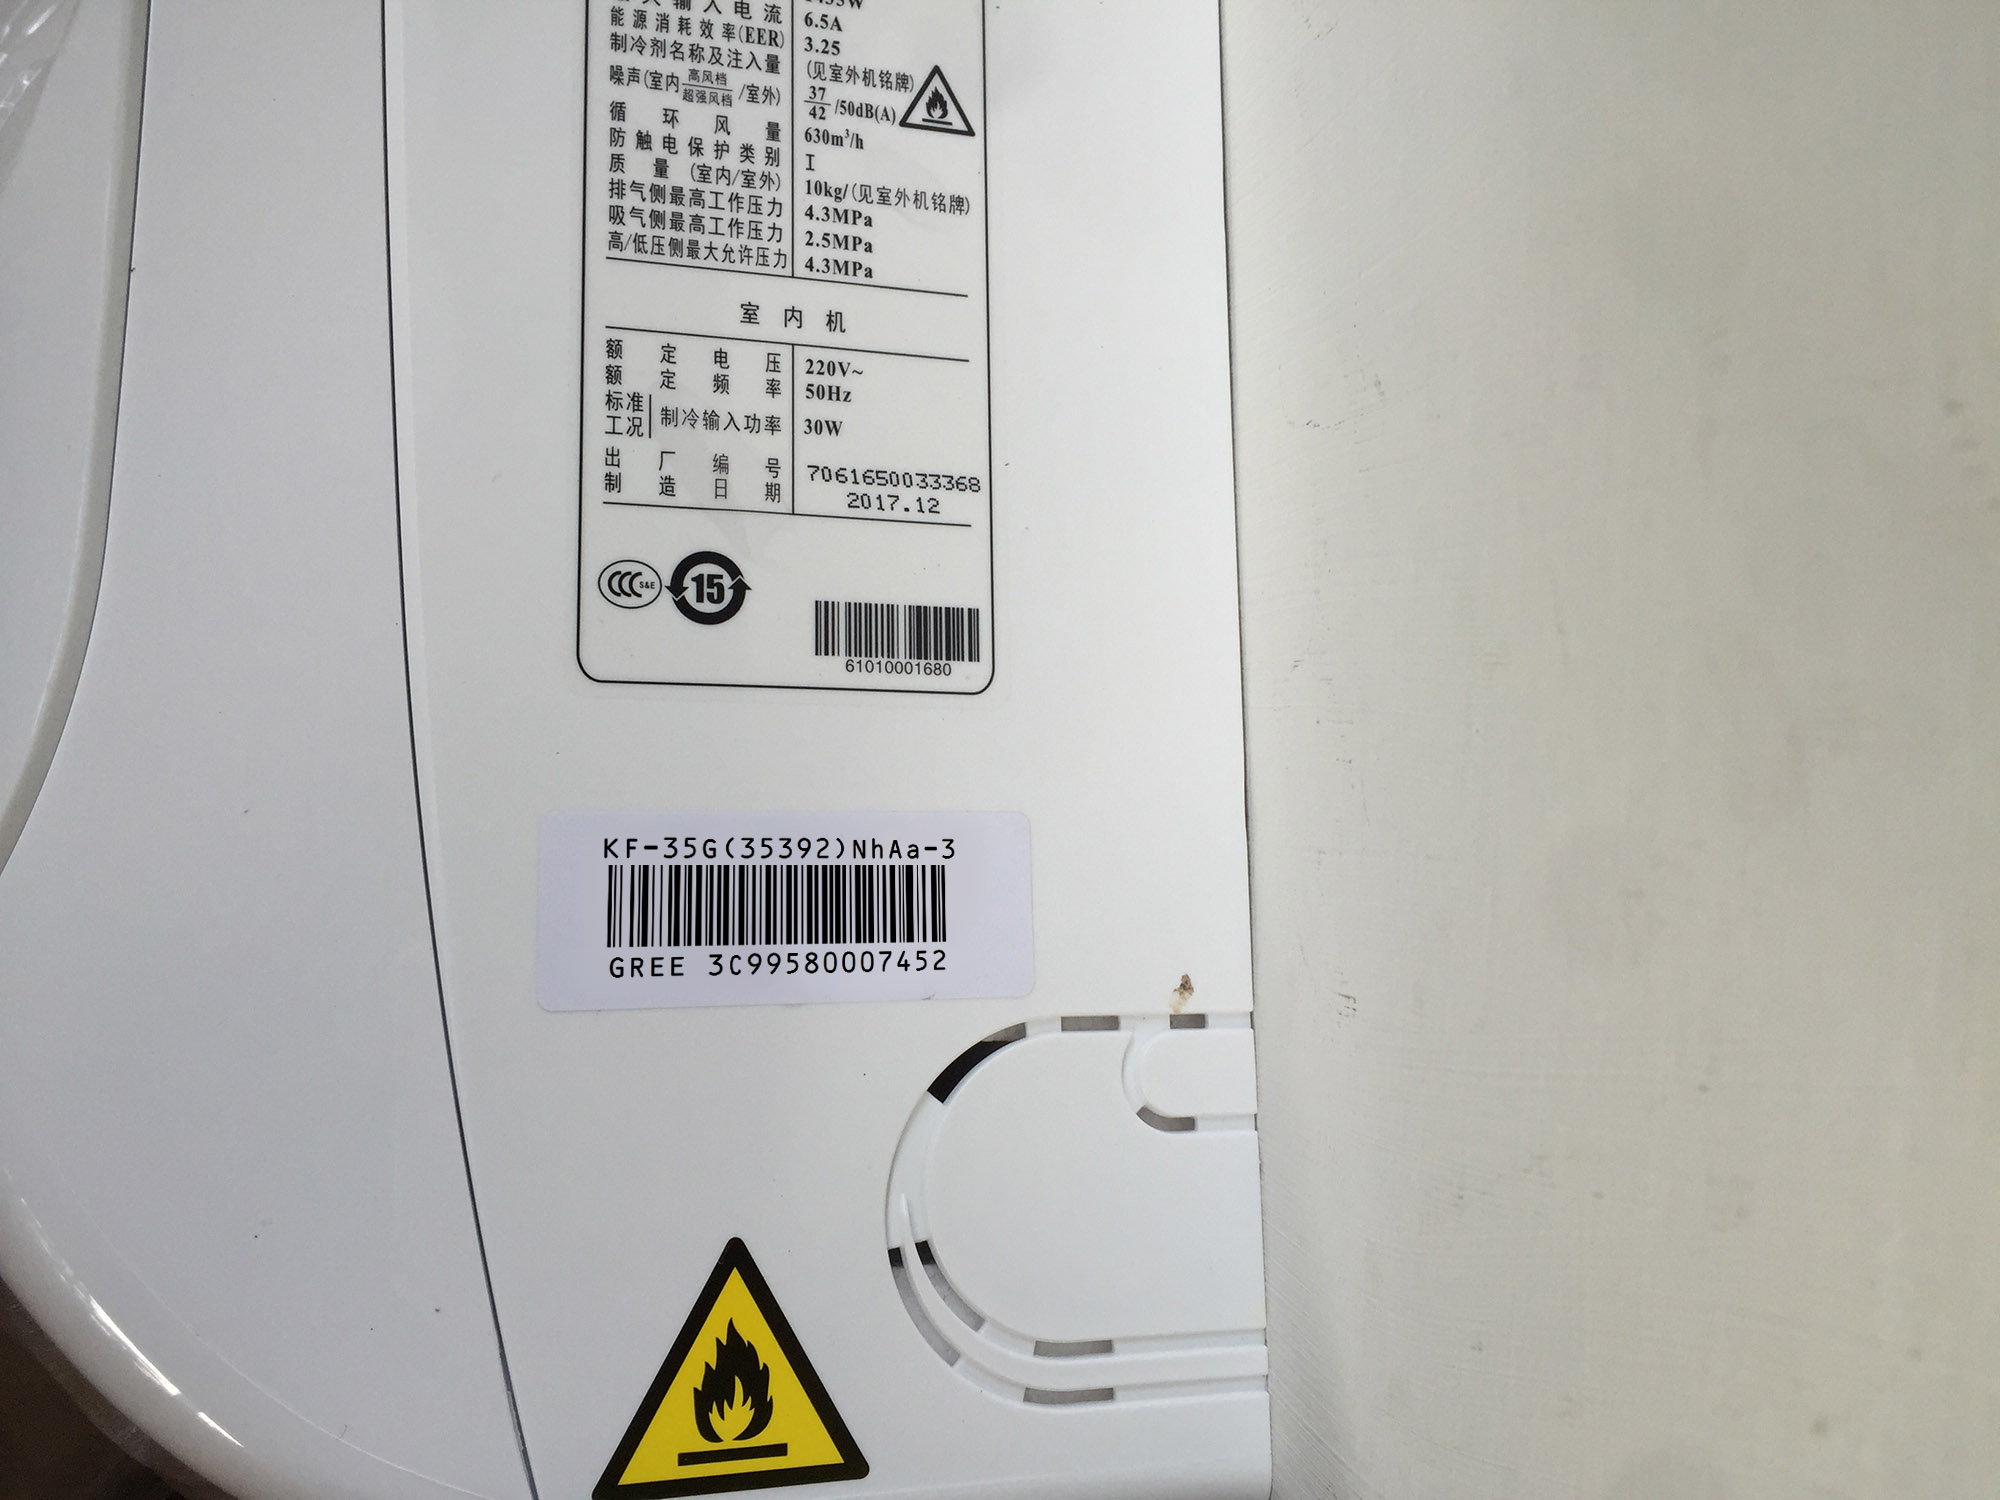
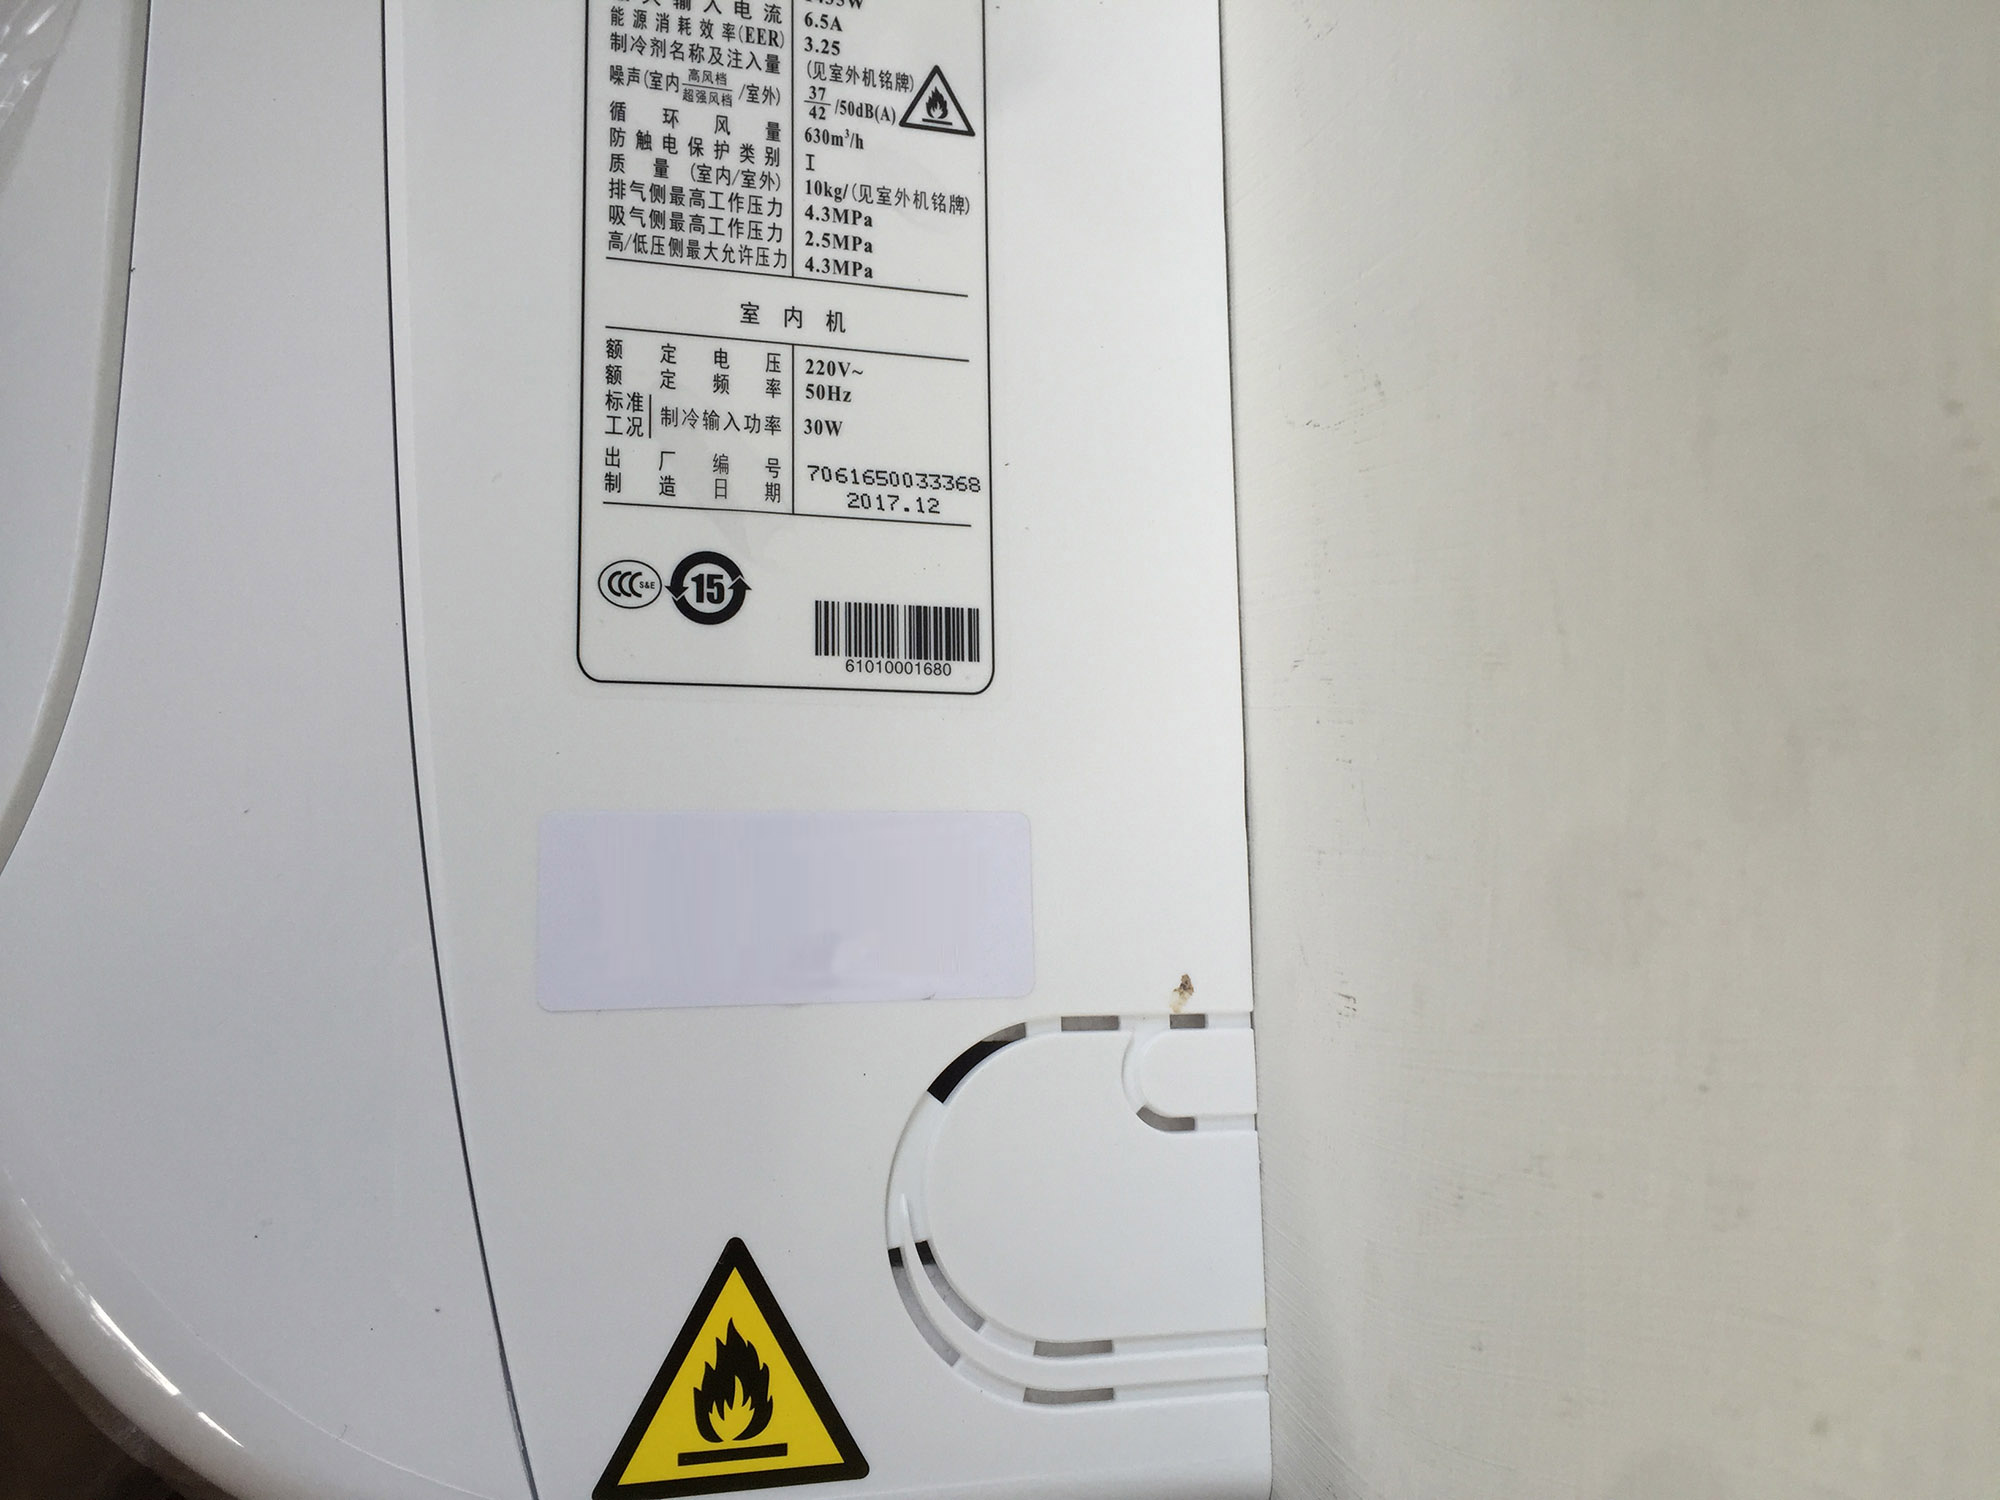
设置透明背景

Changed region(s): [[0.279, 0.552, 0.496, 0.6747]]

diff --git a/poster/src/main/java/sz/fengzfeng/controller/BarcodeController.java b/poster/src/main/java/sz/fengzfeng/controller/BarcodeController.java
@@ -18,8 +18,10 @@ import java.util.ArrayList;
 import java.util.List;
 
 import javax.imageio.ImageIO;
+import javax.swing.ImageIcon;
 
 import org.jbarcode.encode.InvalidAtributeException;
+
 import org.slf4j.Logger;
 import org.slf4j.LoggerFactory;
 import org.springframework.stereotype.Controller;
@@ -63,113 +65,71 @@ public class BarcodeController {
 		    
 			int width = 527;
 			int height = 30;
-			Font font = new Font("817-CAI978", Font.TRUETYPE_FONT, 28);
 			
-			 //设置透明  start
+
+			
+
+			//
 			
 			//添加文字  
 			BufferedImage bi = creater.toBufferedImage(barcode);
 			Graphics2D g2 = (Graphics2D) bi.getGraphics();
+			//
+			int fontsize = 33;
+			int fontheight = bi.getHeight()*1/4;
+			int fontpos_x1 = 18;
+			int fontpos_y1 = 30;
+			int fontpos_x2 = 25;
+			int fontpos_y2 = bi.getHeight() -5;
+			 
+			
+			Font font = new Font("817-CAI978", Font.TRUETYPE_FONT, fontsize);
 			//设置透明背景
 			//bi = g2.getDeviceConfiguration().createCompatibleImage(bi.getWidth(), bi.getWidth(), Transparency.TRANSLUCENT);  
 			//g2=bi.createGraphics();  
 			
 			g2.setPaint(Color.WHITE);
-			g2.fillRect(0, 0, bi.getWidth(), bi.getHeight()*1/4);
-
-            //Color bgcolor = new Color(182,181,194);
-			//Color bgcolor2 = new Color(201,201,211);
-			
-			//clearRect(width, height, g2, bgcolor2, 0);
+			g2.fillRect(0, 0, bi.getWidth(), fontheight);
 
 			g2.setRenderingHint(RenderingHints.KEY_TEXT_ANTIALIASING, RenderingHints.VALUE_TEXT_ANTIALIAS_LCD_HRGB);
 			g2.setFont(font);
 			g2.setPaint(Color.BLACK);
-			g2.drawString(TEXTUp, 15, 25);
+			g2.drawString(TEXTUp, fontpos_x1, fontpos_y1);
+
 			
-			
-			
-			int posy= bi.getHeight()*3/4+5;
 			g2.setPaint(Color.WHITE);
-			g2.fillRect(0, posy, bi.getWidth(), bi.getHeight()*1/4);
+			g2.fillRect(0, fontpos_y2 - 30, bi.getWidth(), fontheight);
 			//clearRect(width, height, g2, bgcolor2, posy);
 			g2.setPaint(Color.BLACK);
-			g2.drawString(TEXTDown + barcode, 15, posy+20);
+			g2.drawString(TEXTDown + barcode, fontpos_x2, fontpos_y2);
 			
-			//替换背景颜色
-			int[] rgb = new int[3];
-			int width1 = bi.getWidth();
-			int height1 = bi.getHeight();
-			int minx = bi.getMinTileX();
-			int miny = bi.getMinTileY();
-			width= width1;
-			/*
-			 * 遍历像素点，判断是否更换颜色
-			 * */
-			Color startcolor = new Color(176,178,191);
-			Color endcolor = new Color(200,200,212);
-			int range = 20;
-			int step_r = (endcolor.getRed() - startcolor.getRed())/ range;
-			int step_g = (endcolor.getGreen() - startcolor.getGreen())/range ;
-			int step_b = (endcolor.getBlue() - startcolor.getBlue())/range ;
-			int step_area = (width1 - minx)/range;
-			int count = 0;
-			step_r = step_r == 0 ? 1 : step_r;
-			step_g = step_g == 0 ? 1 : step_g;
-			step_b = step_b == 0 ? 1 : step_b;
-			logger.info("step/r/g/b:" + step_r + "/" + step_g + "/"+ step_b);
-			logger.info("step_area/width1/minx:" + step_area + "/" + width1 + "/"+ minx);
-			for (int i = minx; i < width1; i++) {
-				
-				count++;
-				int step = count / step_area;
-		 		int r = startcolor.getRed() + step_r*step;
-		 		int g = startcolor.getGreen() + step_g*step;
-		 		int b = startcolor.getBlue() + step_b*step;
-		 		//最后2个区域设置为结束色。
-		 		/*
-		 		if( step >= range -1) {
-		 			r = endcolor.getRed();
-		 			g = endcolor.getGreen();
-		 			b = endcolor.getBlue();
-		 		}
-		 		*/
-		 		
-		 		
-		 		logger.info("step/r/g/b:" + step + "/"+ r + "/"+ g + "/" + b);
-		 		
-				for (int j = miny; j < height1; j++) {
-					/*
-					 * 换色
-					 * */
-					int pixel = bi.getRGB(i, j);
-					rgb[0] = (pixel & 0xff0000) >>16;
-					rgb[1] = (pixel & 0xff00) >>8;
-				 	rgb[2] = (pixel & 0xff) ;
-				 	
-				 	if (rgb[0]>200 && rgb[1]>200 && rgb[2]>200) {
-				 		int bgcolor = ((0xFF << 24)|(r << 16)|(g << 8)|b);
-						bi.setRGB(i, j, bgcolor);
-					
-					}
-				}
-			}
+			logger.info("fontheight:" + fontheight);
+
 			
-			g2.dispose();
 			try {
 				ImageIO.write(bi, "png", f);
+				g2.dispose();
 			} catch (IOException ee) {
 				ee.printStackTrace();
 			}
+			
+			//将图片背景设为透明
+			sz.fengzfeng.utils.IamgeUtil.RemoveWhiteBackground(f.getAbsolutePath());
  
+			BufferedImage barcodeimg = ImageIO.read(f);
 			//合并图片
+			int replace_start_x = 580;
+			int replace_start_y = 850;
+			float replace_angel = -0.35f; //旋转角度。
+			float replace_shear = -0.021f; //向上倾斜
 			File bgfile = new File(rootLocation +"/bg1.jpeg") ;
 			BufferedImage big = ImageIO.read(bgfile);
 			//int bgwidth = big.getWidth();
 			//int bgheight = big.getHeight();
 			Graphics2D g = big.createGraphics();
-			g.shear(0, -0.024);// 倾斜图像
-			g.drawImage(bi,580,850,bi.getWidth()+30,bi.getHeight()+35,null);
+			g.shear(0, replace_shear);// 倾斜图像
+			//g.rotate(Math.toRadians(replace_angel), replace_start_x,replace_start_y);
+			g.drawImage(barcodeimg,replace_start_x,replace_start_y,bi.getWidth(),bi.getHeight(),null);
 			g.dispose();
 			ImageIO.write(big, "png", new File(rootLocation + "/merge.png"));
 			
@@ -190,18 +150,8 @@ public class BarcodeController {
 
 		return suffix + "/index";
 	}
-
-	private void clearRect(int width, int height, Graphics2D g2, Color bgcolor2, int posy) {
-		for(int i =1; i<= 16 ; i++) {
-			if (i == 16) {
-				g2.setBackground(bgcolor2);
-			}else {
-				g2.setBackground(new Color(182 + i,181+i,194 +i));
-			}
-			int start = width*(i-1)/16 ;
-			g2.clearRect(start, posy, width*1/16+5, height);
-		}
-	}
+	
+   
 	
 	 public static void main(String[] args) {
 		try {

diff --git a/poster/src/main/java/sz/fengzfeng/utils/IamgeUtil.java b/poster/src/main/java/sz/fengzfeng/utils/IamgeUtil.java
@@ -1,0 +1,66 @@
+package sz.fengzfeng.utils;
+
+import java.awt.Color;
+import java.awt.Graphics2D;
+import java.awt.image.BufferedImage;
+import java.io.File;
+import java.io.IOException;
+
+import javax.imageio.ImageIO;
+import javax.swing.ImageIcon;
+
+import org.slf4j.Logger;
+import org.slf4j.LoggerFactory;
+
+public class IamgeUtil {
+	private static Logger logger = LoggerFactory.getLogger(IamgeUtil.class);
+	public static void RemoveWhiteBackground(String path) {
+        try {  
+            BufferedImage image = ImageIO.read(new File(path));  
+            ImageIcon imageIcon = new ImageIcon(image);  
+            BufferedImage bufferedImage = new BufferedImage(  
+                    imageIcon.getIconWidth(), imageIcon.getIconHeight(),  
+                    BufferedImage.TYPE_4BYTE_ABGR);  
+            Graphics2D g2D = (Graphics2D) bufferedImage.getGraphics();  
+            g2D.drawImage(imageIcon.getImage(), 0, 0,  
+                    imageIcon.getImageObserver());  
+            int alpha = 0;  
+            for (int j1 = bufferedImage.getMinY(); j1 < bufferedImage  
+                    .getHeight(); j1++) {  
+                for (int j2 = bufferedImage.getMinX(); j2 < bufferedImage  
+                        .getWidth(); j2++) {  
+                    int rgb = bufferedImage.getRGB(j2, j1);
+                    Color color = new Color(rgb, true);
+                    // 如果已经透明了就不再处理
+                    if(color.getAlpha() == 0){
+                        continue;
+                    }
+                    if (colorInRange(rgb))  
+                        alpha = 0;  
+                    else  
+                        alpha = 255;  
+                    rgb = (alpha << 24) | (rgb & 0x00ffffff);  
+                    bufferedImage.setRGB(j2, j1, rgb);  
+                }  
+            }  
+            g2D.drawImage(bufferedImage, 0, 0, imageIcon.getImageObserver());  
+            // 生成图片为PNG  
+            String outFile = path.substring(0, path.lastIndexOf("."));  
+            ImageIO.write(bufferedImage, "png", new File(outFile + ".png"));  
+        } catch (IOException e) {
+           logger.error(e.getMessage());
+        }  
+    }  
+    
+    public static boolean colorInRange(int color) {  
+        int red = (color & 0xff0000) >> 16;  
+        int green = (color & 0x00ff00) >> 8;  
+        int blue = (color & 0x0000ff);  
+        if (red >= color_range && green >= color_range && blue >= color_range)  
+            return true;  
+        return false;  
+    }  
+    // 根据需要自己调整这个阈值，如果只需要去掉纯白色背景就设为255
+    public static int color_range = 200;
+
+}

diff --git a/poster/src/main/java/sz/fengzfeng/utils/BarcodeCreater.java b/poster/src/main/java/sz/fengzfeng/utils/BarcodeCreater.java
@@ -111,9 +111,9 @@ public class BarcodeCreater {
 	
 	public void setDefaultSize() throws InvalidAtributeException {
         // 尺寸，面积，大小
-		barcode.setXDimension(Double.valueOf(0.55).doubleValue());
+		barcode.setXDimension(Double.valueOf(0.65).doubleValue());
 		// 高度 10.0 = 1cm 默认1.5cm
-		barcode.setBarHeight(Double.valueOf(30).doubleValue());
+		barcode.setBarHeight(Double.valueOf(40).doubleValue());
         // 宽度率
 		barcode.setWideRatio(Double.valueOf(2.0).doubleValue());
 		barcode.setShowText(false);
